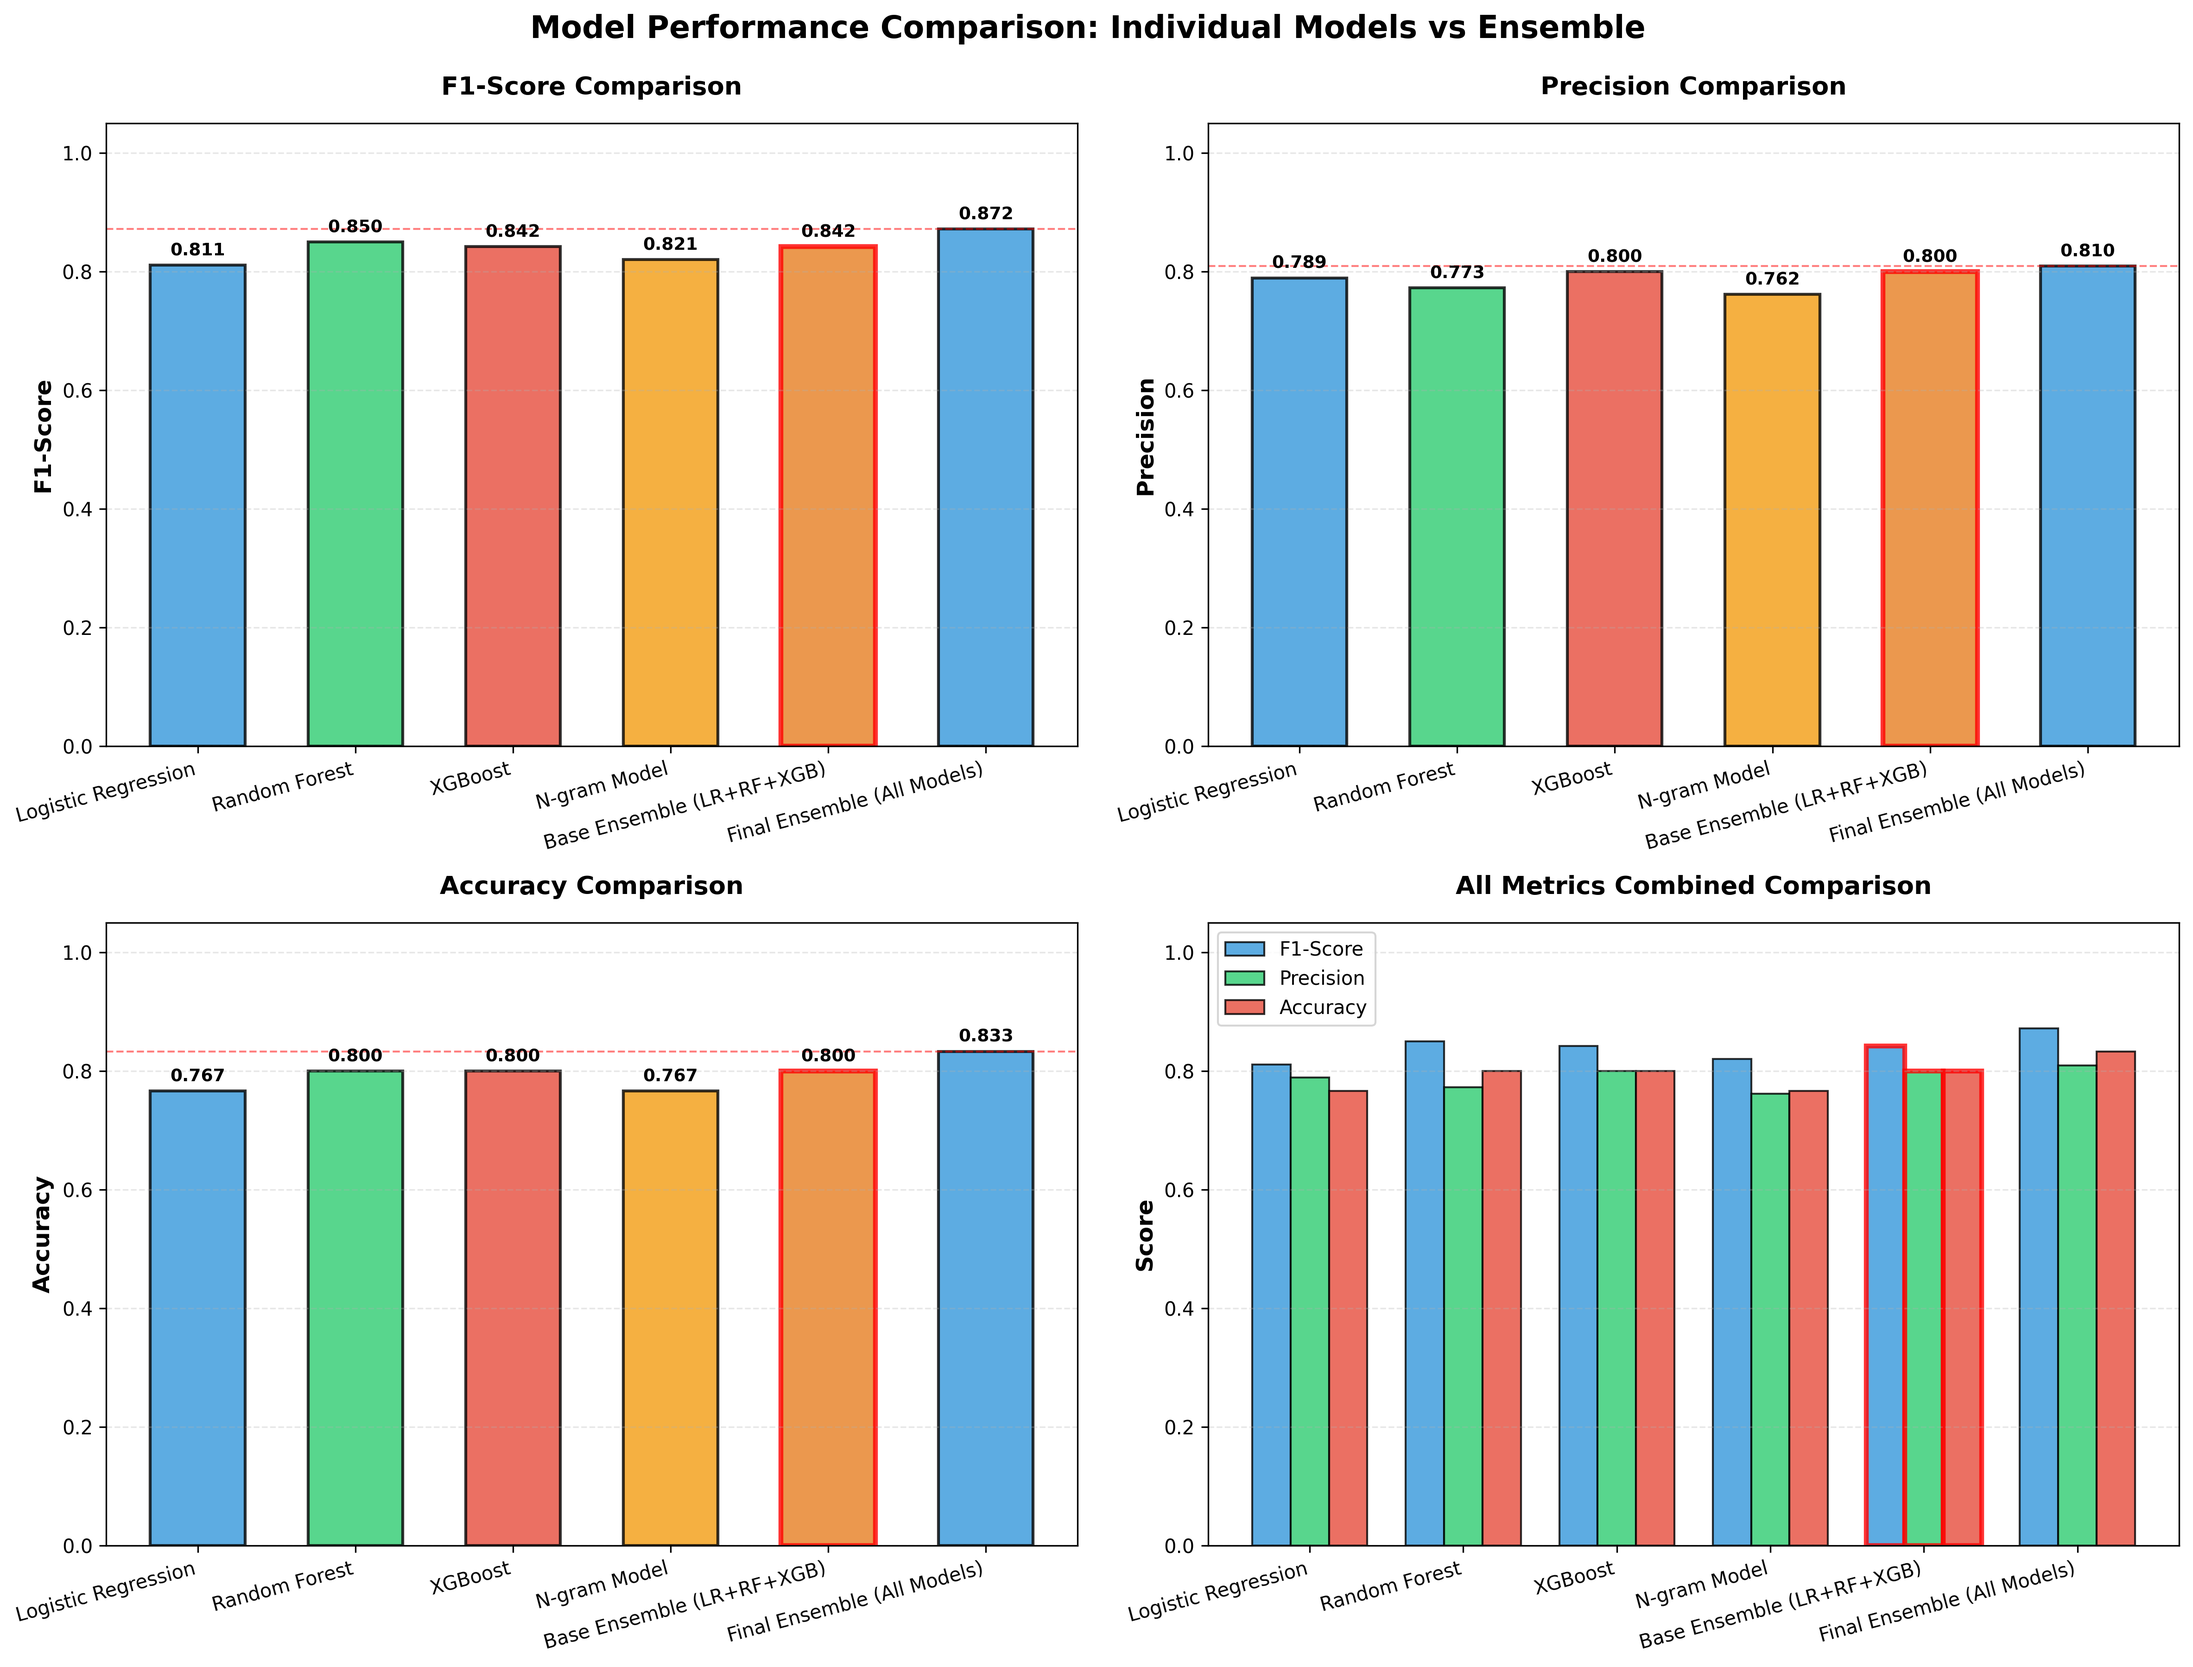
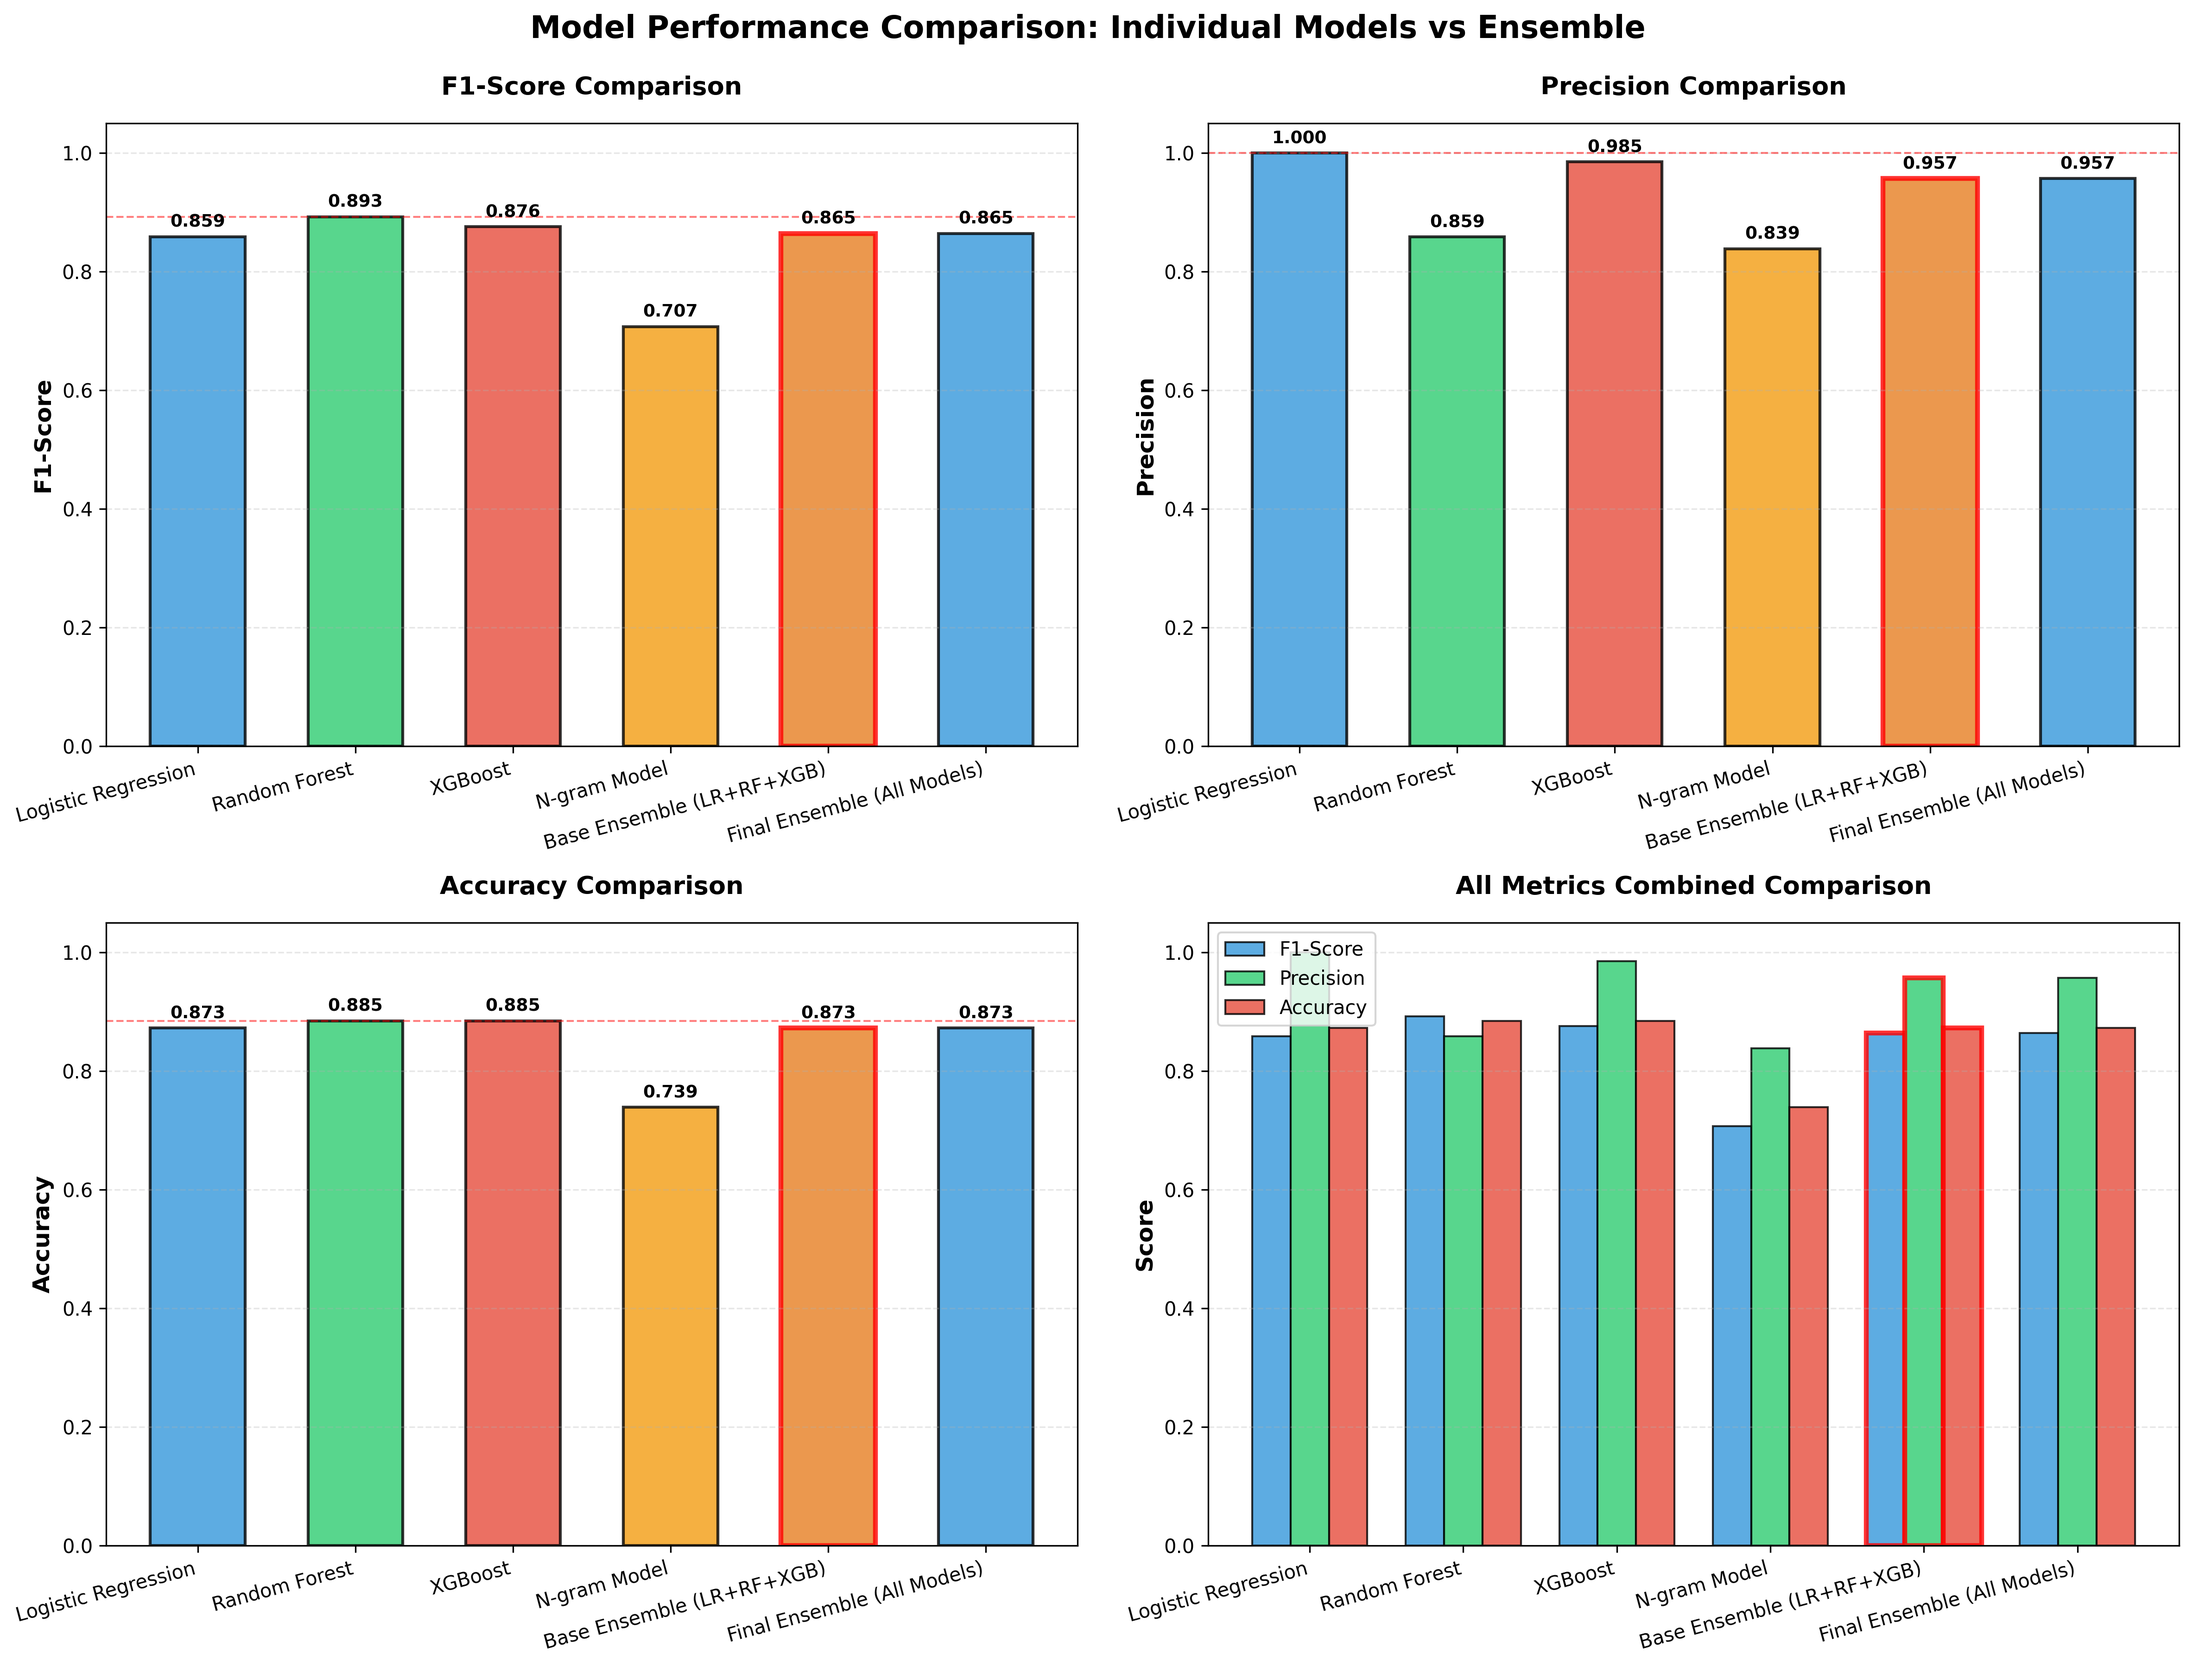
added more training data

diff --git a/predictions.py b/predictions.py
@@ -1,0 +1,158 @@
+"""
+Crypto Scam Prediction Test Script
+Tests the fraud detection model on various types of posts including:
+- Clear scams
+- Clear non-scams
+- Ambiguous cases
+"""
+
+from policy_proposal_labeler import predict_post, predict_batch, CustomEnsemble
+import pandas as pd
+import sys
+
+# Make CustomEnsemble available in __main__ for unpickling
+sys.modules['__main__'].CustomEnsemble = CustomEnsemble
+
+
+# ========== CLEARLY CRYPTO SCAMS ==========
+clear_scams = [
+    {
+        "id": "scam_3",
+        "text": "🎉 CONGRATULATIONS! You've been selected as a Bitcoin lottery winner! You've won 50 BTC! "
+                "To claim your prize, send 0.5 BTC for processing fees to our wallet: 9X8Y7Z6W5V4U3T2S1R. "
+                "Wire transfer your payment via Western Union today!",
+        "description": "Lottery scam with upfront fee requirement"
+    },
+    {
+        "id": "scam_4",
+        "text": "💰 EXCLUSIVE INVESTMENT OPPORTUNITY 💰 Join our Ethereum trading pool! Minimum investment $500, "
+                "guaranteed 300% returns monthly! Risk-free! Already 10,000 members making profits! "
+                "Send money to our PayPal: cryptomaster@profits.com. LIMITED SPOTS AVAILABLE!",
+        "description": "Ponzi scheme with unrealistic returns and urgency"
+    },
+]
+
+
+# ========== CLEARLY NON-SCAMS ==========
+clear_non_scams = [
+    {
+        "id": "legit_1",
+        "text": "Just finished reading the Bitcoin whitepaper again. Satoshi's vision of a peer-to-peer electronic "
+                "cash system is still revolutionary. The mathematical elegance of proof-of-work consensus "
+                "is impressive. What are your thoughts on the original design?",
+        "description": "Educational discussion about cryptocurrency technology"
+    },
+    {
+        "id": "legit_2",
+        "text": "Ethereum's transition to proof-of-stake has reduced energy consumption by over 99%. "
+                "This is a significant milestone for blockchain sustainability. The merge was completed "
+                "successfully without major issues. Looking forward to future upgrades like sharding.",
+        "description": "Informative post about legitimate blockchain developments"
+    }
+]
+
+
+# ========== AMBIGUOUS CASES ==========
+ambiguous_cases = [
+    {
+        "id": "ambiguous_4",
+        "text": "Lost access to my old wallet from 2016. Anyone know good recovery services? "
+                "Willing to pay 20% of recovered funds as fee. Had significant amount of BTC. "
+                "Need someone trustworthy who can help. Please DM if you have experience with this.",
+        "description": "Could be genuine help request or setup for recovery scam"
+    },
+    {
+        "id": "ambiguous_6",
+        "text": "Urgent: Bitcoin is crashing! Sell now before you lose everything! "
+                "Market manipulation by whales! This is not a drill! Protect your investments! "
+                "Switch to stable coins immediately!",
+        "description": "Panic-inducing but could be genuine concern or FUD spreading"
+    }
+]
+
+
+def run_predictions():
+    """Run predictions on all test cases and display results"""
+    
+    print("=" * 80)
+    print("CRYPTO SCAM DETECTION - TEST PREDICTIONS")
+    print("=" * 80)
+    print()
+    
+    all_results = []
+    
+    # Test clear scams
+    print("📛 TESTING CLEAR SCAMS")
+    print("-" * 80)
+    for item in clear_scams:
+        prediction, probability = predict_post(item["text"], return_probability=True)
+        label = "🚨 SCAM" if prediction == 1 else "✅ LEGIT"
+        confidence = probability if prediction == 1 else (1 - probability)
+        
+        print(f"\n{item['id']}: {label} (Confidence: {confidence:.1%})")
+        print(f"Description: {item['description']}")
+        print(f"Text: {item['text'][:150]}...")
+        
+        all_results.append({
+            "id": item["id"],
+            "category": "Clear Scam",
+            "text": item["text"],
+            "description": item["description"],
+            "prediction": "Scam" if prediction == 1 else "Legit",
+            "probability": probability,
+            "confidence": confidence
+        })
+    
+    # Test clear non-scams
+    print("\n\n")
+    print("✅ TESTING CLEAR NON-SCAMS")
+    print("-" * 80)
+    for item in clear_non_scams:
+        prediction, probability = predict_post(item["text"], return_probability=True)
+        label = "🚨 SCAM" if prediction == 1 else "✅ LEGIT"
+        confidence = probability if prediction == 1 else (1 - probability)
+        
+        print(f"\n{item['id']}: {label} (Confidence: {confidence:.1%})")
+        print(f"Description: {item['description']}")
+        print(f"Text: {item['text'][:150]}...")
+        
+        all_results.append({
+            "id": item["id"],
+            "category": "Clear Non-Scam",
+            "text": item["text"],
+            "description": item["description"],
+            "prediction": "Scam" if prediction == 1 else "Legit",
+            "probability": probability,
+            "confidence": confidence
+        })
+    
+    # Test ambiguous cases
+    print("\n\n")
+    print("❓ TESTING AMBIGUOUS CASES")
+    print("-" * 80)
+    for item in ambiguous_cases:
+        prediction, probability = predict_post(item["text"], return_probability=True)
+        label = "🚨 SCAM" if prediction == 1 else "✅ LEGIT"
+        confidence = probability if prediction == 1 else (1 - probability)
+        
+        print(f"\n{item['id']}: {label} (Confidence: {confidence:.1%})")
+        print(f"Description: {item['description']}")
+        print(f"Text: {item['text'][:150]}...")
+        
+        all_results.append({
+            "id": item["id"],
+            "category": "Ambiguous",
+            "text": item["text"],
+            "description": item["description"],
+            "prediction": "Scam" if prediction == 1 else "Legit",
+            "probability": probability,
+            "confidence": confidence
+        })
+    
+    df_results = pd.DataFrame(all_results)
+    return df_results
+
+
+if __name__ == "__main__":
+    results = run_predictions()
+

diff --git a/policy_proposal_labeler.py b/policy_proposal_labeler.py
@@ -424,43 +424,68 @@ def train_model_from_csv(csv_path, use_ensemble=True, use_feature_selection=True
     print("ADVANCED FRAUD DETECTION MODEL TRAINING")
     print("=" * 60)
     
-    print(f"\n[1/6] Loading dataset: {csv_path}")
+    print(f"\n[1/8] Loading training dataset: {csv_path}")
     df = pd.read_csv(csv_path)
     
     if "Post Content" not in df.columns or "Ground Truth Label" not in df.columns:
         raise ValueError("CSV file must contain 'Post Content' and 'Ground Truth Label' columns.")
     
+    # Filter out rows with NaN labels
+    print(f"Total rows in CSV: {len(df)}")
+    df = df.dropna(subset=["Ground Truth Label"])
+    print(f"Rows with valid labels: {len(df)}")
+    
     texts = df["Post Content"].astype(str).tolist()
     labels = np.array(df["Ground Truth Label"].tolist())
     
-    print(f"Loaded {len(texts)} posts")
-    print(f"Label distribution: {pd.Series(labels).value_counts().to_dict()}")
+    print(f"Loaded {len(texts)} training posts")
+    print(f"Training label distribution: {pd.Series(labels).value_counts().to_dict()}")
     
-    print(f"\n[2/6] Extracting features...")
+    print(f"\n[2/8] Loading test dataset: test.csv")
+    test_csv_path = "test.csv"
+    if not os.path.exists(test_csv_path):
+        raise FileNotFoundError(f"Test CSV file '{test_csv_path}' not found. Please ensure test.csv exists.")
+    
+    df_test = pd.read_csv(test_csv_path)
+    
+    if "Post Content" not in df_test.columns or "Ground Truth Label" not in df_test.columns:
+        raise ValueError("Test CSV file must contain 'Post Content' and 'Ground Truth Label' columns.")
+    
+    # Filter out rows with NaN labels
+    print(f"Total rows in test CSV: {len(df_test)}")
+    df_test = df_test.dropna(subset=["Ground Truth Label"])
+    print(f"Rows with valid labels in test CSV: {len(df_test)}")
+    
+    texts_test = df_test["Post Content"].astype(str).tolist()
+    y_test = np.array(df_test["Ground Truth Label"].tolist())
+    
+    print(f"Loaded {len(texts_test)} test posts")
+    print(f"Test label distribution: {pd.Series(y_test).value_counts().to_dict()}")
+    
+    print(f"\n[3/8] Extracting features for training data...")
     EMBEDDER = SentenceTransformer(EMBEDDER_MODEL_NAME)
-    X_all, feature_names = extract_all_features(texts, EMBEDDER)
+    X_train, feature_names = extract_all_features(texts, EMBEDDER)
     
-    print(f"\n[3/7] Splitting data (80/20)...")
-    indices = np.arange(len(texts))
-    X_train, X_test, y_train, y_test, idx_train, idx_test = train_test_split(
-        X_all, labels, indices, test_size=0.2, random_state=42, stratify=labels
-    )
-    texts_train = [texts[i] for i in idx_train]
-    texts_test = [texts[i] for i in idx_test]
+    print(f"\n[4/8] Extracting features for test data...")
+    X_test, _ = extract_all_features(texts_test, EMBEDDER)
     
-    print(f"\n[4/7] Training n-gram and keyword matching model...")
+    # Use all training data (no split)
+    texts_train = texts
+    y_train = labels
+    
+    print(f"\n[5/8] Training n-gram and keyword matching model...")
     ngram_model, ngram_vectorizer = train_ngram_model(
         texts_train, y_train, texts_test, y_test
     )
     
-    print(f"\n[5/7] Scaling features...")
+    print(f"\n[6/8] Scaling features...")
     scaler = StandardScaler()
     X_train_scaled = scaler.fit_transform(X_train)
     X_test_scaled = scaler.transform(X_test)
     
     feature_selector = None
     if use_feature_selection:
-        print(f"\n[6/7] Applying feature selection...")
+        print(f"\n[7/8] Applying feature selection...")
         k_best = min(500, X_train_scaled.shape[1])
         feature_selector = SelectKBest(score_func=f_classif, k=k_best)
         X_train_selected = feature_selector.fit_transform(X_train_scaled, y_train)
@@ -470,7 +495,7 @@ def train_model_from_csv(csv_path, use_ensemble=True, use_feature_selection=True
         X_train_selected = X_train_scaled
         X_test_selected = X_test_scaled
     
-    print(f"\n[7/7] Training ensemble classifier...")
+    print(f"\n[8/8] Training ensemble classifier...")
     
     model_results = {}
     
